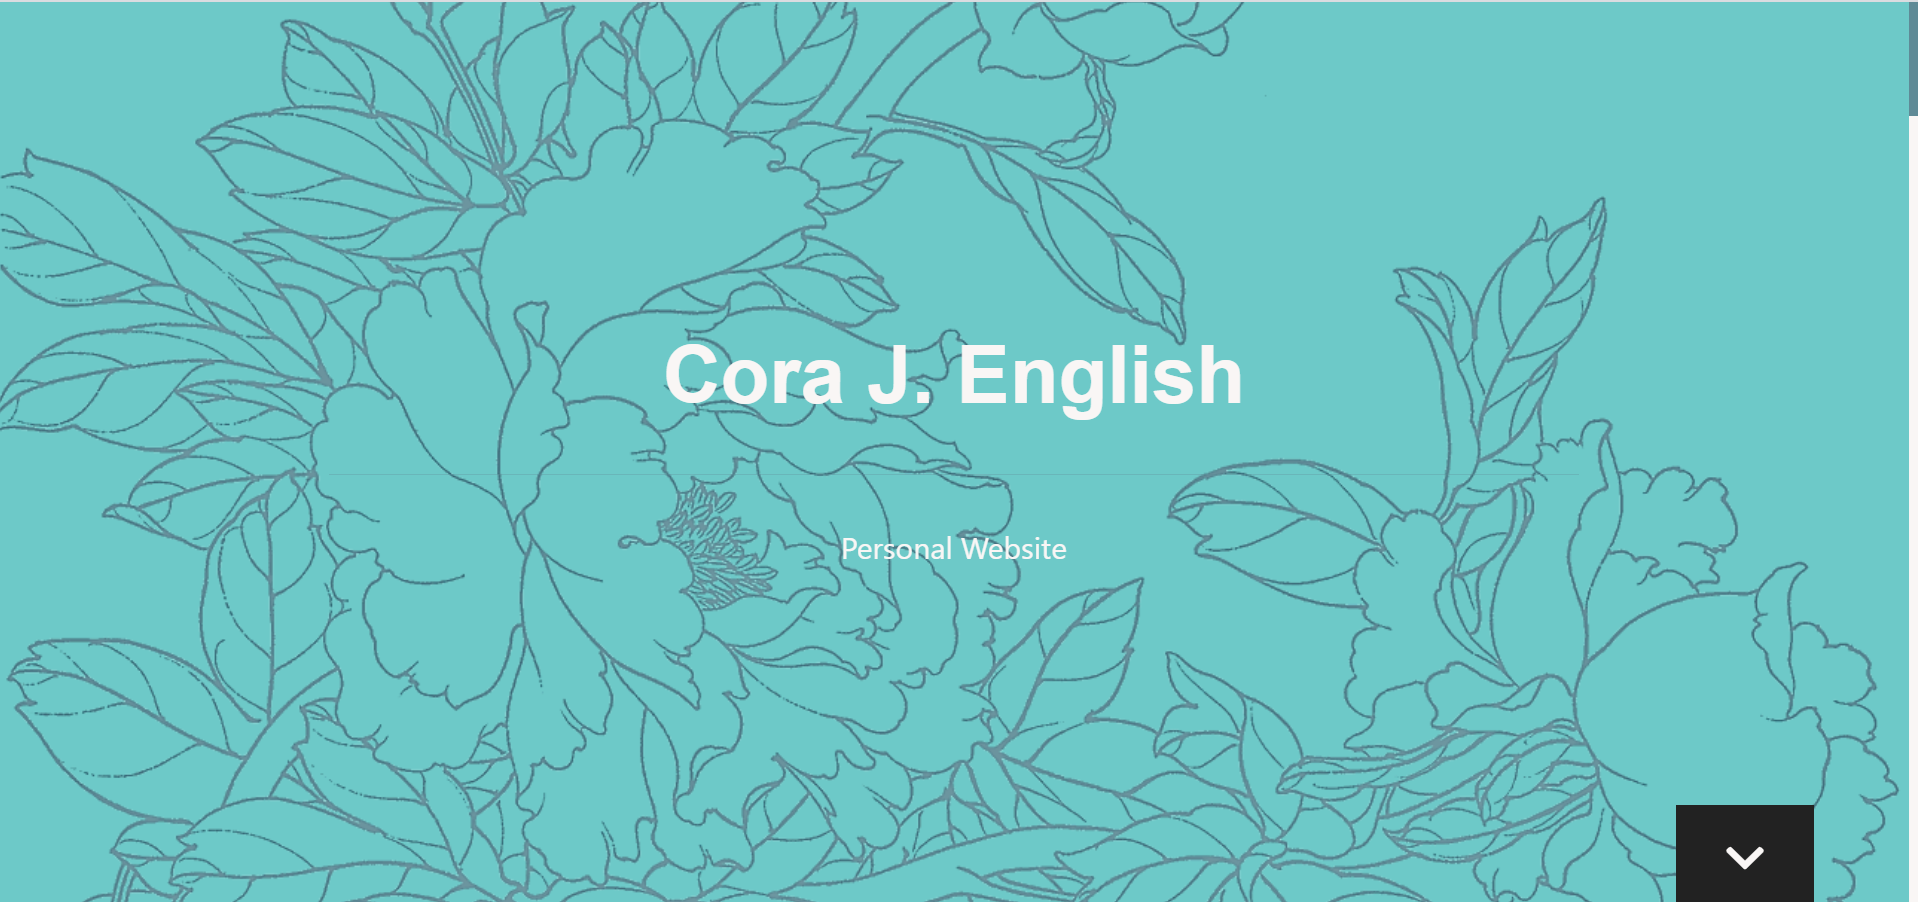
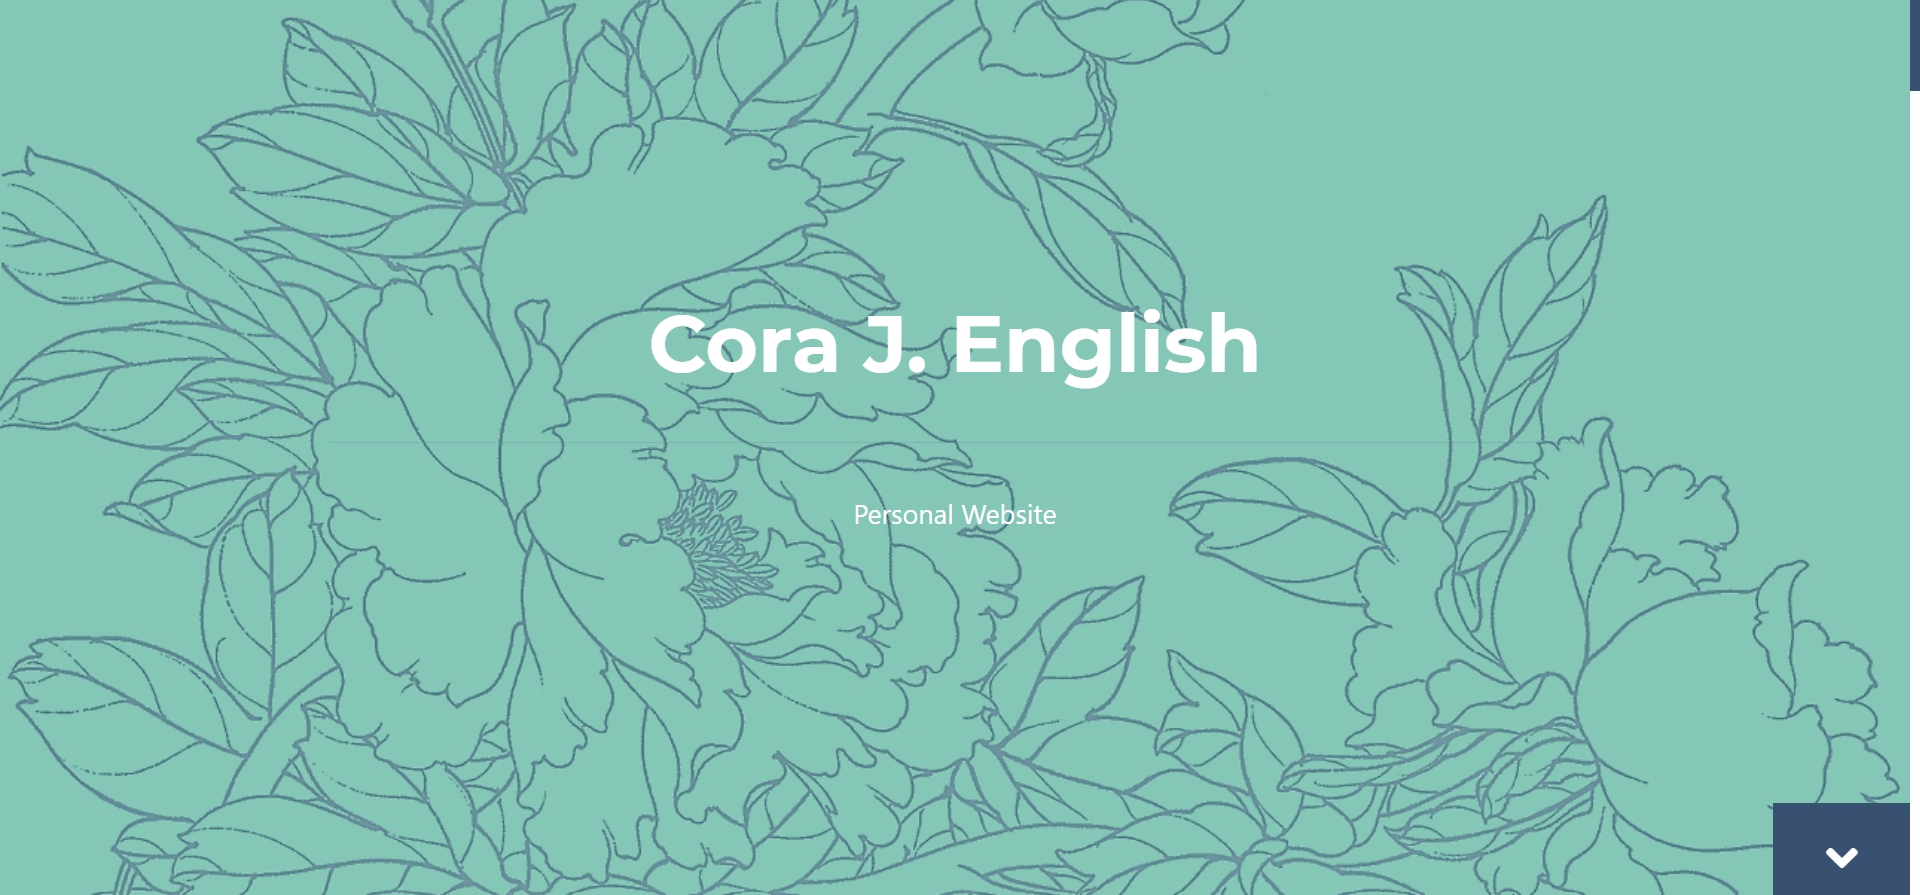
fixed screenshot and tried to fix jumbotron again

diff --git a/index.html b/index.html
@@ -453,7 +453,8 @@
             <div class="modal-dialog modal-dialog-scrollable modal-dialog-centered modal-xl">
               <div class="modal-content">
                 <div class="modal-body">
-                  <img src="./images/personal-site.png" class="img-modal-end" alt="personal-site">
+                  <img src="./images/personal-site.png" class="img-modal" alt="personal-site">
+                  <img src="./images/personal-site-1.png" class="img-modal-end" alt="personal-site">
                 </div>
                 <div class="modal-footer">
                   <button type="button" class="btn btn-secondary btn-modal-close" data-dismiss="modal">Close</button>

diff --git a/css/styles.css b/css/styles.css
@@ -105,7 +105,7 @@ hr {
 }
 
 #spacer-top {
-  height: 25vh;
+  height: 30vh;
 }
 
 .main {
@@ -303,10 +303,13 @@ div.sticky-nav {
 }
 
 @media screen and (max-width: 768px) {
+  #spacer-top {
+    height: 10vh;
+  }
   .jumbotron {
     background: no-repeat center fixed url('../images/background-img3.png');
     background-size: 50%;
-    background-size: cover;
+    background-size: auto;
     margin-bottom: 0px;
     padding: 0px;
     border-radius: 0;
